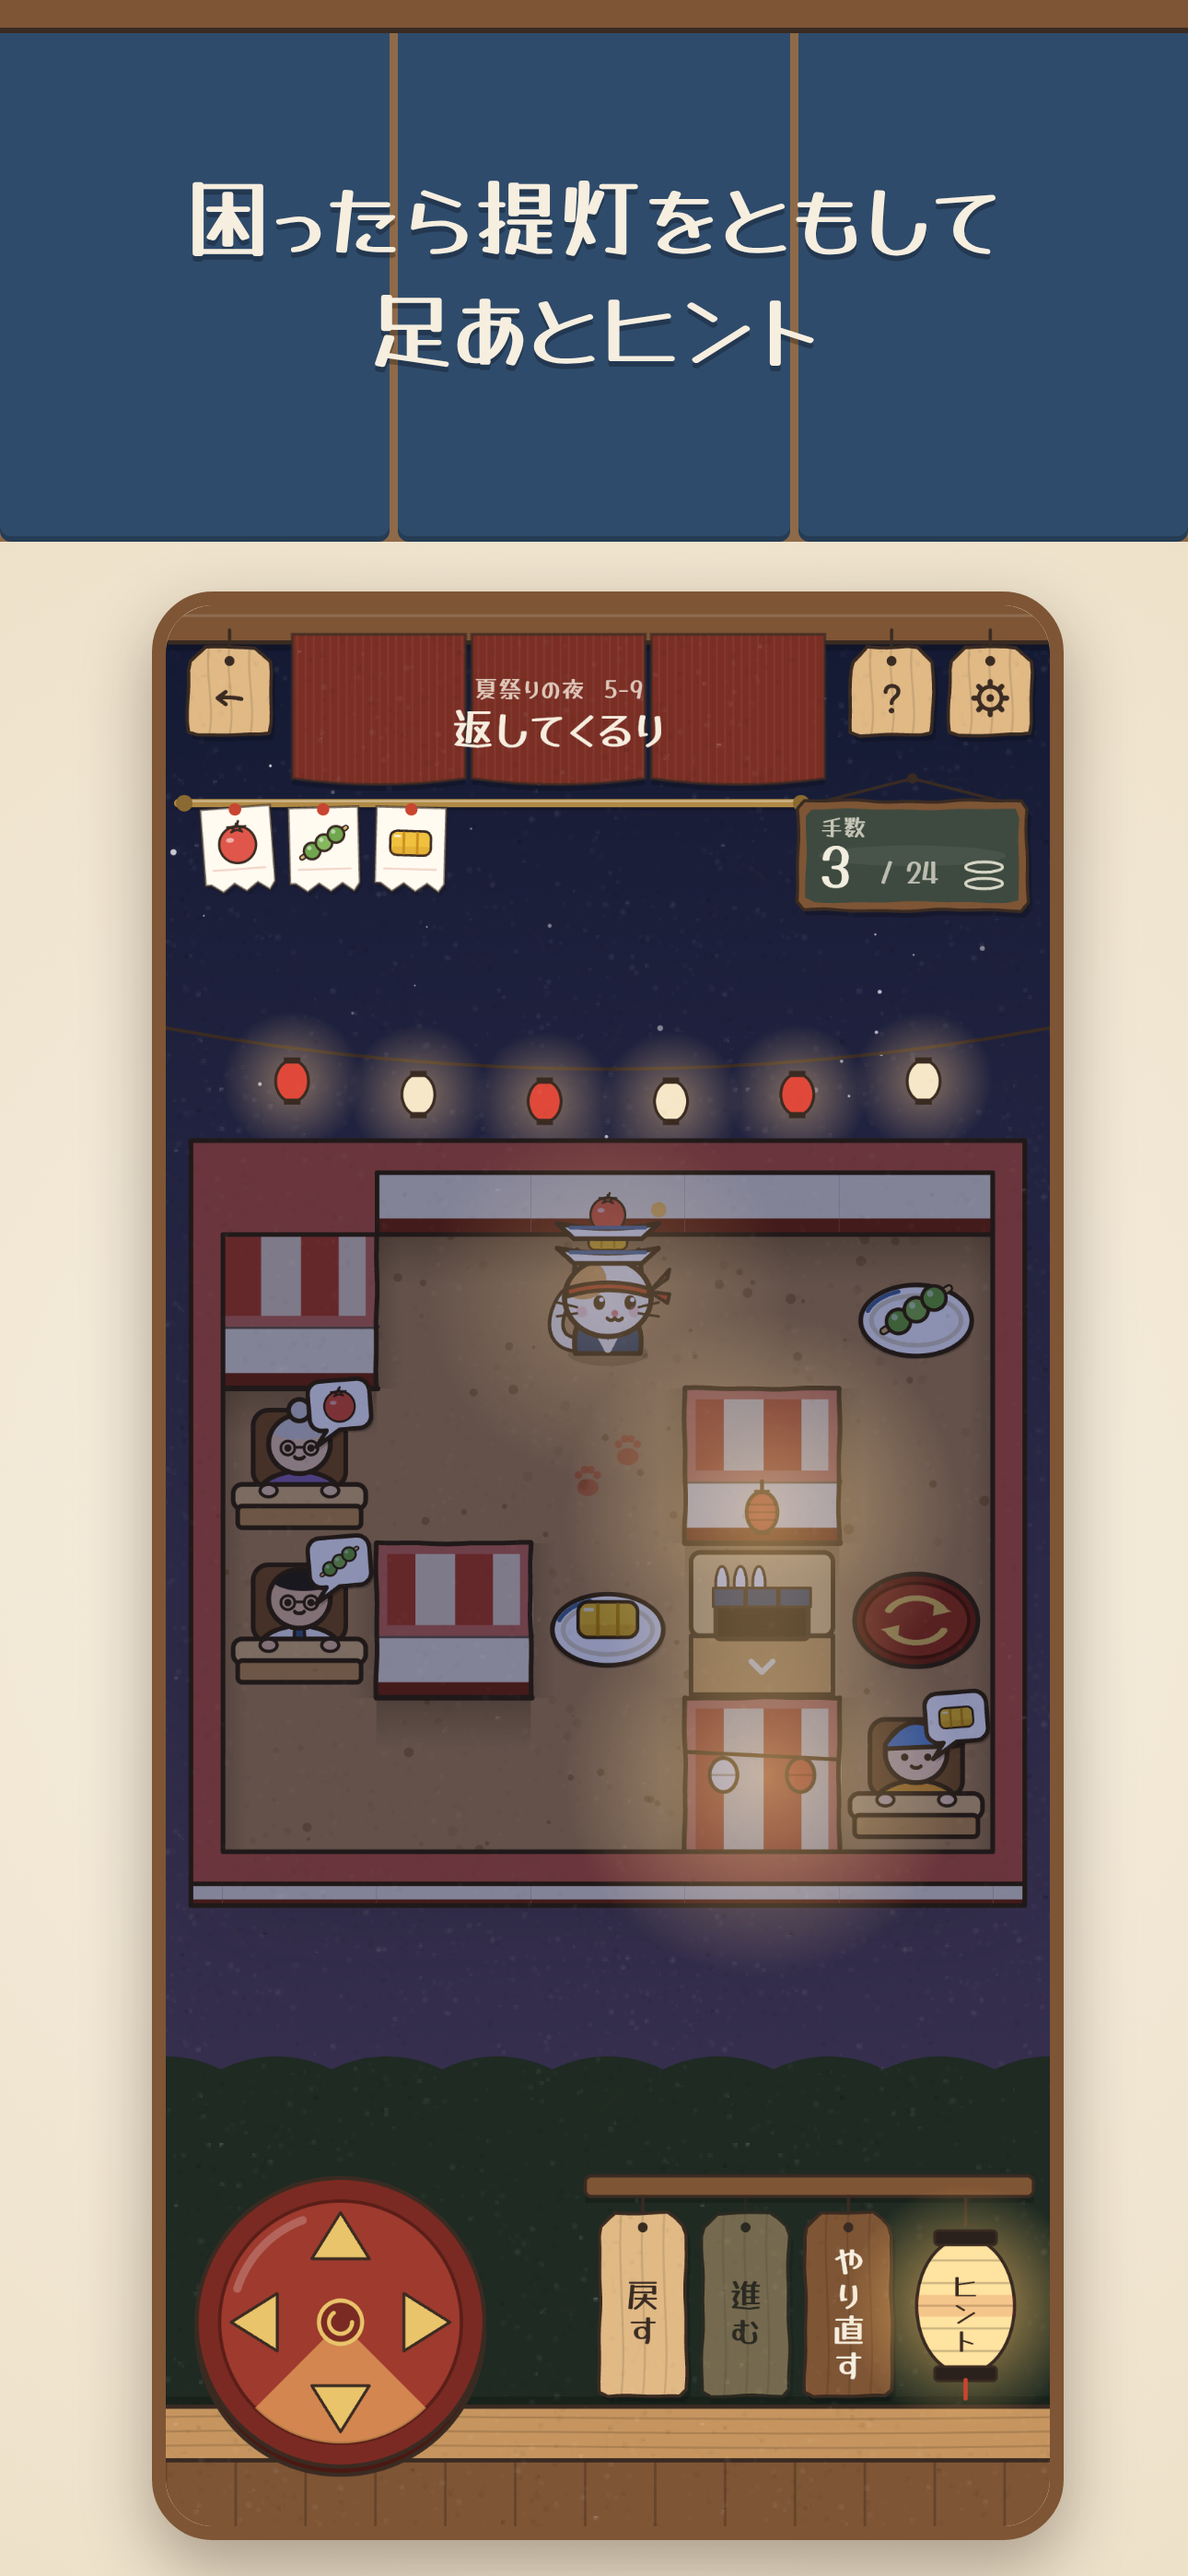
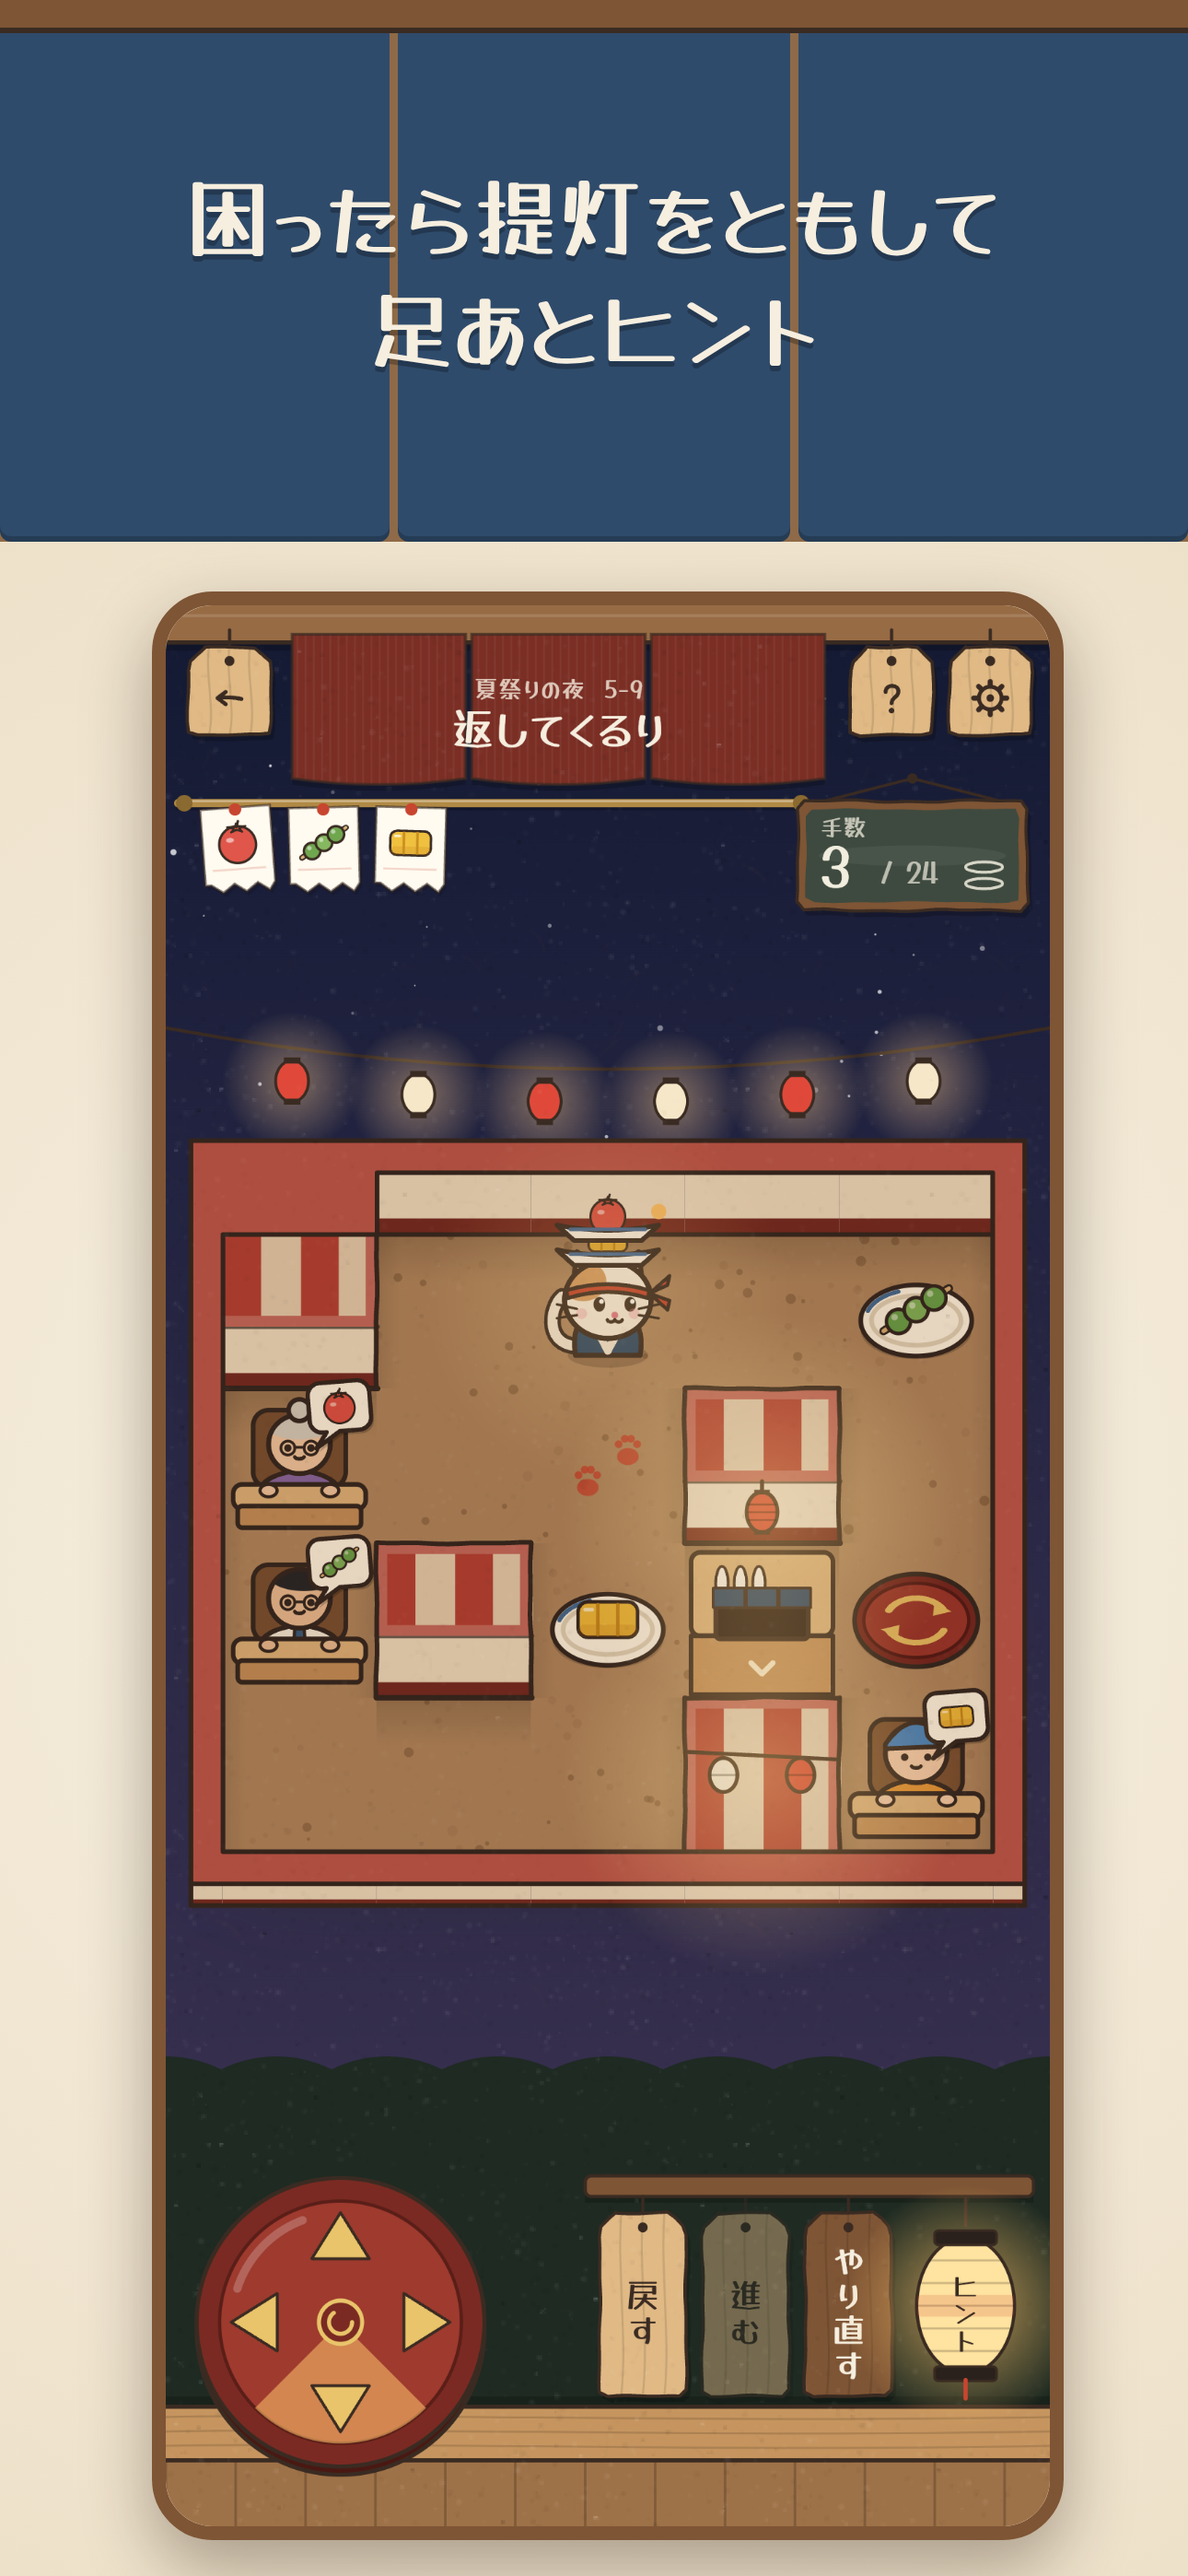
Add a signed Play bundle workflow and refresh store screenshots
A manual/tag-triggered workflow builds the App Bundle with the upload
key from repository secrets, bumps the build number per run, and fails
rather than ship a debug-signed bundle. Store screenshots now show the
brighter shops and the wrong-dish reveal. RELEASE.md separates what is
done from what the owner still has to do (accounts, keys, privacy
policy URL, device checks).

Claude-Session: https://claude.ai/code/session_01DRNSWaayhc1txh3mvzkJmg

Changed region(s): [[0.155, 0.4356, 0.8682, 0.7468], [0.124, 0.9335, 0.8992, 0.9957], [0.155, 0.2178, 0.8682, 0.2489]]

diff --git a/apps/tsumiage_demae/tool/make_store_screens.js b/apps/tsumiage_demae/tool/make_store_screens.js
@@ -38,7 +38,8 @@ function progressUpTo(upTo) {
 const shots = [
   { name: '01', progress: 'b05', open: null, keys: [], wait: 4200,
     ja: '頭の上に積んで、\n順番どおりにお届け', en: 'Stack it on your head,\nserve it in order' },
-  { name: '02', progress: 'b10', open: 'b09', keys: ['ArrowDown', 'ArrowLeft', 'ArrowLeft', 'ArrowDown'], wait: 900,
+  // a wrong serve: the dishes on top lift and the wanted one glows (held still with reduced motion)
+  { name: '02', progress: 'b05', open: 'b04', keys: ['ArrowLeft', 'ArrowLeft', 'ArrowLeft', 'ArrowDown'], wait: 900, still: true,
     ja: '通れば拾う。\n渡せるのはいちばん上だけ', en: 'Pick up what you walk over.\nServe only the top dish' },
   { name: '03', progress: 'm09', open: 'm09', keys: ['ArrowDown', 'ArrowUp', 'ArrowRight', 'h'], wait: 700,
     ja: '困ったら提灯をともして\n足あとヒント', en: 'Stuck? Light the lantern\nfor a paw-print hint' },
@@ -55,6 +56,7 @@ async function capture(browser, dev, lang, shot) {
     viewport: { width: dev.w, height: dev.h },
     deviceScaleFactor: dev.dpr,
     colorScheme: shot.dark ? 'dark' : 'light',
+    reducedMotion: shot.still ? 'reduce' : 'no-preference',
     locale: lang === 'ja' ? 'ja-JP' : 'en-US',
   });
   await page.goto(URL);

diff --git a/apps/tsumiage_demae/docs/RELEASE.md b/apps/tsumiage_demae/docs/RELEASE.md
@@ -44,6 +44,21 @@ flutter test
    # build/app/outputs/bundle/release/app-release.aab を Play Console へ
    ```
 
+   GitHub Actions でも作れます（手元に Android SDK がなくてよい）。リポジトリの
+   Settings → Secrets and variables → Actions に次の4つを登録し、Actions タブで
+   「tsumiage_demae release」を実行するか、`tsumiage-v1.0.0` のようなタグを push します。
+
+   | シークレット | 中身 |
+   | --- | --- |
+   | `TSUMIAGE_UPLOAD_KEYSTORE_BASE64` | `base64 -w0 ~/tsumiage-upload.jks` の出力（mac は `base64 -i ~/tsumiage-upload.jks`） |
+   | `TSUMIAGE_UPLOAD_STORE_PASSWORD` | キーストアのパスワード |
+   | `TSUMIAGE_UPLOAD_KEY_PASSWORD` | 鍵のパスワード |
+   | `TSUMIAGE_UPLOAD_KEY_ALIAS` | `upload` |
+
+   署名済みの `tsumiage_demae-aab` がアーティファクトとして残ります。ビルド番号は実行番号で自動的に増えます。
+   シークレットがないときは、デバッグ署名のまま進まないように失敗します。
+   Play Console では「Play アプリ署名」を有効にしたまま、この AAB を内部テストに上げてから製品版へ進めます。
+
 - アプリ ID: `io.github.itoshiyou.tsumiage_demae`（公開後は変更不可。変える場合は公開前に
   `android/app/build.gradle.kts` の `applicationId` と `namespace`、`MainActivity.kt` のパッケージを変更）
 - アプリ名: 日本語「つみあげ出前」、英語「Stack & Deliver」（`res/values*/strings.xml`）
@@ -90,9 +105,27 @@ App Store の App Privacy は「データを収集しない」、Google Play の
 
 ## 公開前チェックリスト
 
-- [ ] `flutter analyze` と `flutter test` が通る
+### 開発側（済）
+
+- [x] `flutter analyze` と `flutter test` が通る（CI でも Android / iOS のビルドまで確認）
+- [x] 全46面が解けること・目標手数が最短であることをテストで確認
+- [x] 小さい画面（320×568）〜タブレット（820×1180）で全章のレイアウトを確認
+- [x] 端末の文字サイズ最大（アプリ内では1.3倍まで反映）で全画面がはみ出さない
+- [x] 日本語／英語、昼／夜、動きを減らす、読み上げ
+- [x] ストア用スクリーンショット・フィーチャーグラフィック・掲載文・申告内容
+
+### 持ち主が行うこと
+
+- [ ] 開発者名と連絡先メールを決め、`store/privacy-policy.html` と `store/listing.md` の（開発者名）を埋める
+- [ ] プライバシーポリシーを公開URLに置く（GitHub Pages、個人サイトなど。App Store と Play の両方で必須）
+- [ ] サポートURL（App Store 必須。問い合わせ先が書かれたページで可）
+- [ ] Google Play デベロッパー登録、アップロード鍵の作成と上記シークレットの登録
+- [ ] Apple Developer Program 登録、Xcode で Team を設定して `flutter build ipa`
+- [ ] 実機での最終確認（以下）
+
+#### 実機での最終確認
+
 - [ ] Android 実機・iOS 実機で、音（マナーモード時は無音）、振動、バックグラウンド復帰時のBGMを確認
-- [ ] 小さい画面（iPhone SE）と大きい画面（タブレット）でレイアウトを確認
-- [ ] 端末の文字サイズを最大にして、はみ出しがないか確認
+- [ ] 小さい画面（iPhone SE）とタブレットで見た目を確認
 - [ ] ダークモード、英語表示を確認
 - [ ] 1面から最終面まで通しでプレイ
